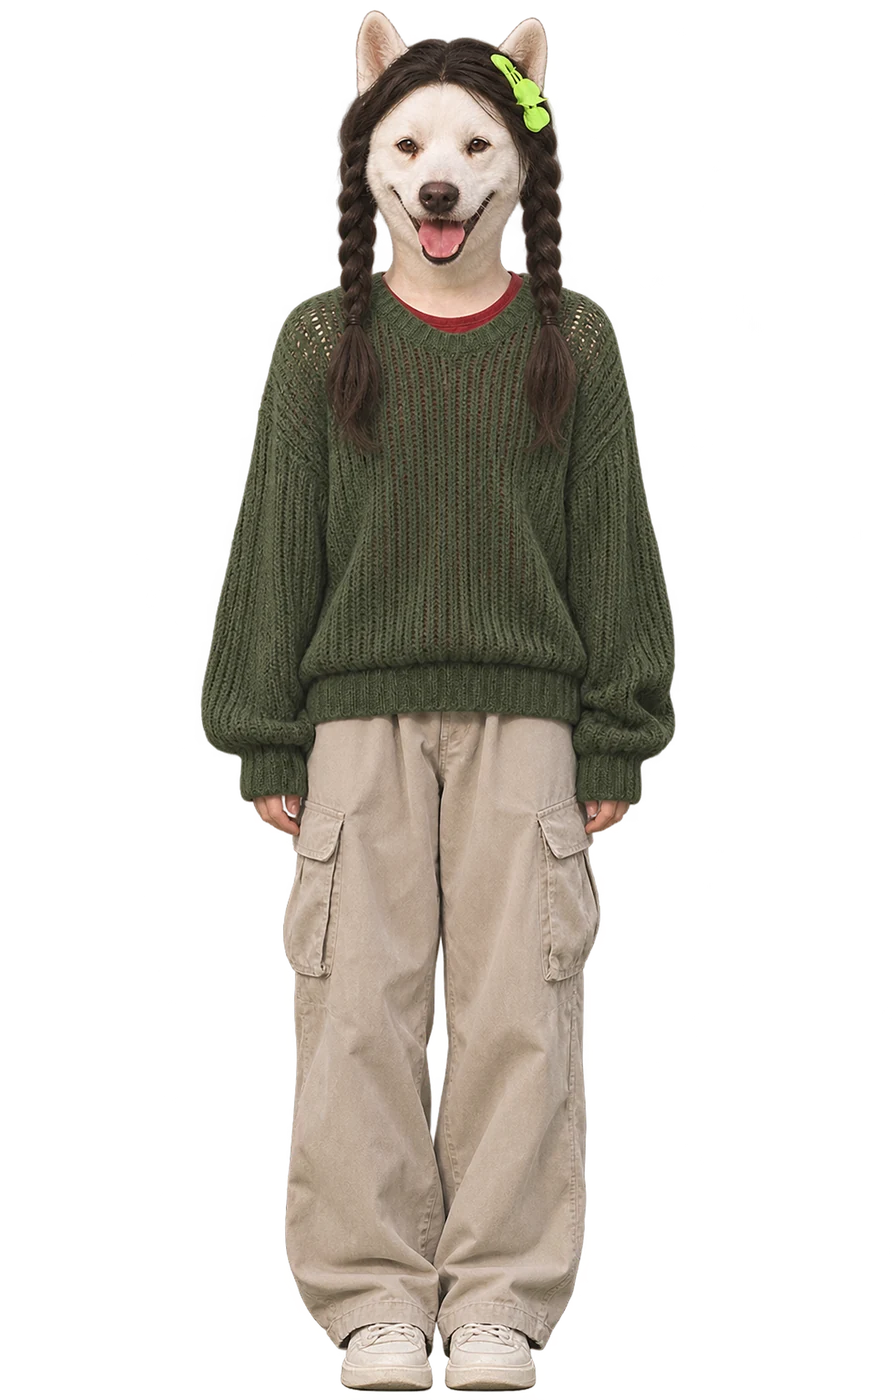
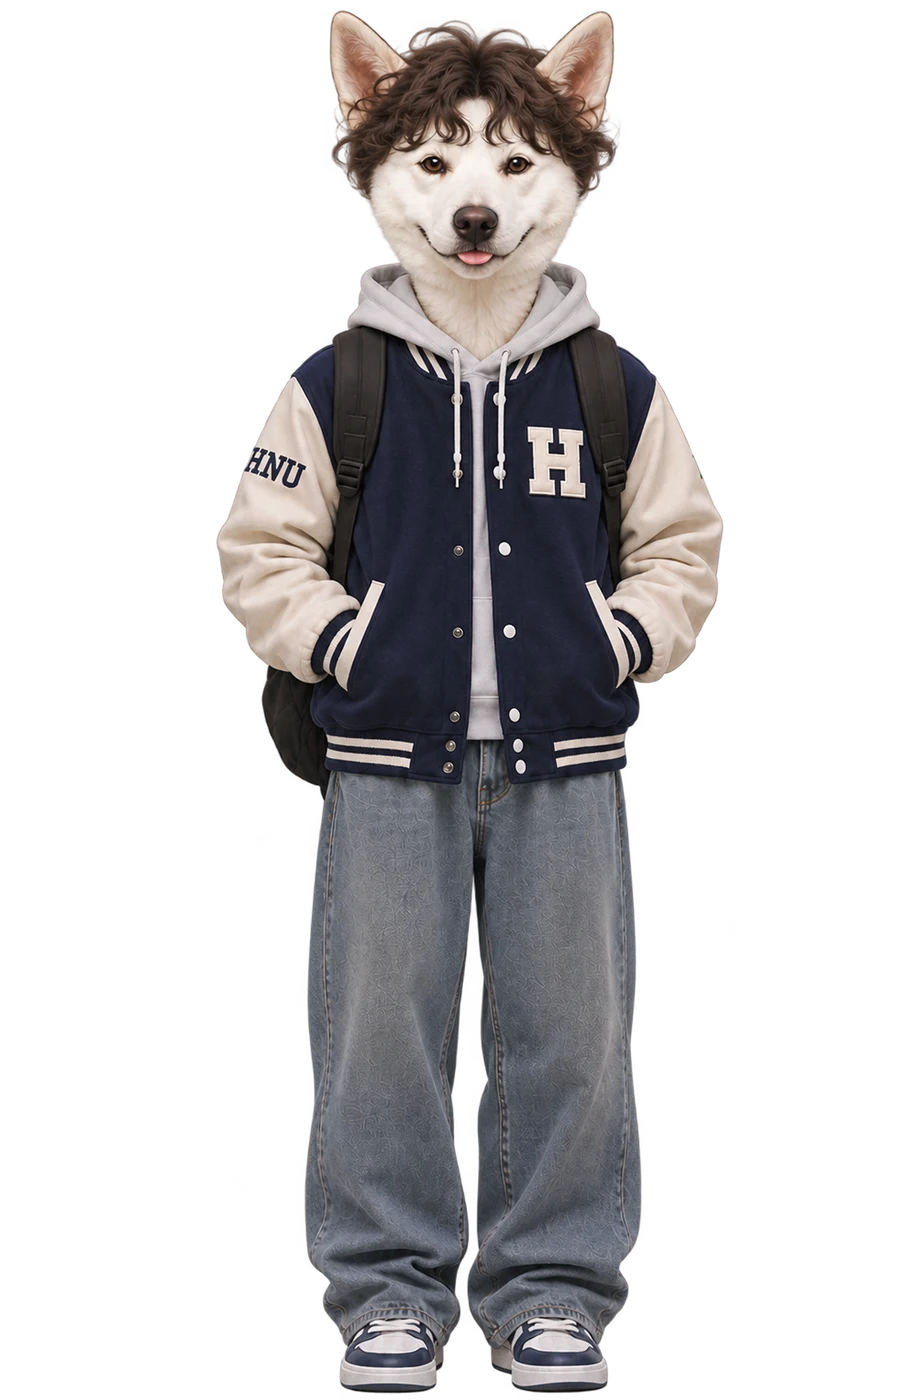
새 캐릭터 이미지 적용: 시유(정면·미소·씁쓸), 시혁(정면·대화), 나미 / 시혁 학생증·단체 사진 갱신
Claude-Session: https://claude.ai/code/session_01QyUschkezPNteRQgoBSBiz

diff --git a/src/data/lintonScene.js b/src/data/lintonScene.js
@@ -70,14 +70,14 @@ export const LINTON = {
     // 멀리서 본 두 사람 (고등시혁대화.png) — 대화하지 않는 원경에서만
     couple: { name: '', folder: `${T}couple/`, fallback: `${T}couple.webp`, x: -40, bottom: 5, w: 810 },
     // 대화 중 개별 이미지 (턱시혁.png · 이고등.png)
-    sihyuk: { name: '턱시혁', folder: `${T}sihyuk/`, fallback: `${T}sihyuk.webp`, x: -160, bottom: -10, w: 288 },
+    sihyuk: { name: '턱시혁', folder: `${T}sihyuk/`, ext: 'webp', fallback: `${T}sihyuk.webp`, x: -190, bottom: -10, w: 470 }, // 시혁정면1 · 시혁대화
     goeun: { name: '이고등', folder: `${T}goeun/`, fallback: `${T}goeun.webp`, x: 110, bottom: -10, w: 218 },
     // 대화 중 시유: 시유전신.png (화면 오른쪽, 다리 아래는 화면 밖). 포즈 이미지가 생기면 siyu/<포즈>.png
-    siyu: { name: '김시유', known: true, folder: `${T}siyu/`, fallback: `${T}siyu-full.webp`, x: 534, bottom: -429, w: 530 },
+    siyu: { name: '김시유', known: true, folder: `${T}siyu-l/`, ext: 'webp', fallback: `${T}siyu-full.webp`, x: 430, bottom: -429, w: 718 }, // 시유정면 · 미소 · 씁쓸
     // 걸어가며 지나가는 시유 (시유옆모습.png) — left: 왼쪽을 보고 걸음(반전), right: 오른쪽으로 걸음
-    siyuSide: { name: '김시유', known: true, folder: `${T}siyu-side/`, as: 'siyu', fallback: `${T}siyu-side.webp`, x: 534, bottom: -429, w: 533, flip: ['left'] },
+    siyuSide: { name: '김시유', known: true, folder: `${T}siyu-side/`, as: 'siyu', fallback: `${T}siyu-side.webp`, x: 430, bottom: -429, w: 713, flip: ['left'] },
   },
-  photo: { src: `${T}photo-group.webp`, fallback: `${T}placeholder/photo.webp`, face: [0.567, 0.7], window: [0.89, 0.33] },
+  photo: { src: `${T}photo-group.webp`, fallback: `${T}placeholder/photo.webp`, face: [0.589, 0.629], window: [0.844, 0.312] },
   bagImg: { src: `${T}kimbap.webp` }, // 참치김밥.png
 
   lines: [

diff --git a/src/data/dialogues.js b/src/data/dialogues.js
@@ -51,7 +51,8 @@ export const DIALOGUES = {
       ],
     },
     main: ['???', '김시유'], // 메인 캐릭터(시유) 대사만 기본 방향, 나머지는 대화창 좌우 반전
-    character: { folder: `${T}siyu/`, fallback: `${T}char-siyu-v2.webp` },
+    // 새 시유 (시유정면 · 시유미소 · 시유씁쓸 가슴 위 클로즈업). 누운 자세만 예전 그림(siyu/lying*.png)
+    character: { folder: `${T}siyu-bust/`, ext: 'webp', fallback: `${T}siyu-bust/base.webp`, lying: `${T}siyu/` },
     // 보조 인물 (실루엣): 화면 오른쪽 가장자리에 크게, 일부만 보이게
     extras: { student: { src: `${T}student.webp`, opacity: 0.55 } },
     typeSpeed: 35, // ms/글자

diff --git a/src/components/DialogScene.jsx b/src/components/DialogScene.jsx
@@ -272,7 +272,7 @@ export default function DialogScene({ dialog, onClose }) {
   useEffect(() => {
     let off = false
     Object.keys(seenPoses(lines)).forEach((p) => {
-      const url = `${BASE}${ch.folder}${p}.png`
+      const url = p.startsWith('lying') && ch.lying ? `${BASE}${ch.lying}${p}.png` : `${BASE}${ch.folder}${p}.${ch.ext || 'png'}`
       const img = new Image()
       img.onload = () => !off && setSrcs((m) => ({ ...m, [p]: url }))
       img.onerror = () => !off && setSrcs((m) => ({ ...m, [p]: BASE + ch.fallback }))

diff --git a/src/components/CastScene.jsx b/src/components/CastScene.jsx
@@ -121,7 +121,7 @@ export default function CastScene({ dialog, onClose, startAt }) {
     Object.keys(need).forEach((k) => {
       const [who, p] = k.split('/')
       const c = dialog.cast[who]
-      const url = `${BASE}${c.folder}${p}.png`
+      const url = `${BASE}${c.folder}${p}.${c.ext || 'png'}`
       const img = new Image()
       img.onload = () => !off && setSrcs((m) => ({ ...m, [k]: url }))
       img.onerror = () => !off && setSrcs((m) => ({ ...m, [k]: BASE + c.fallback }))
